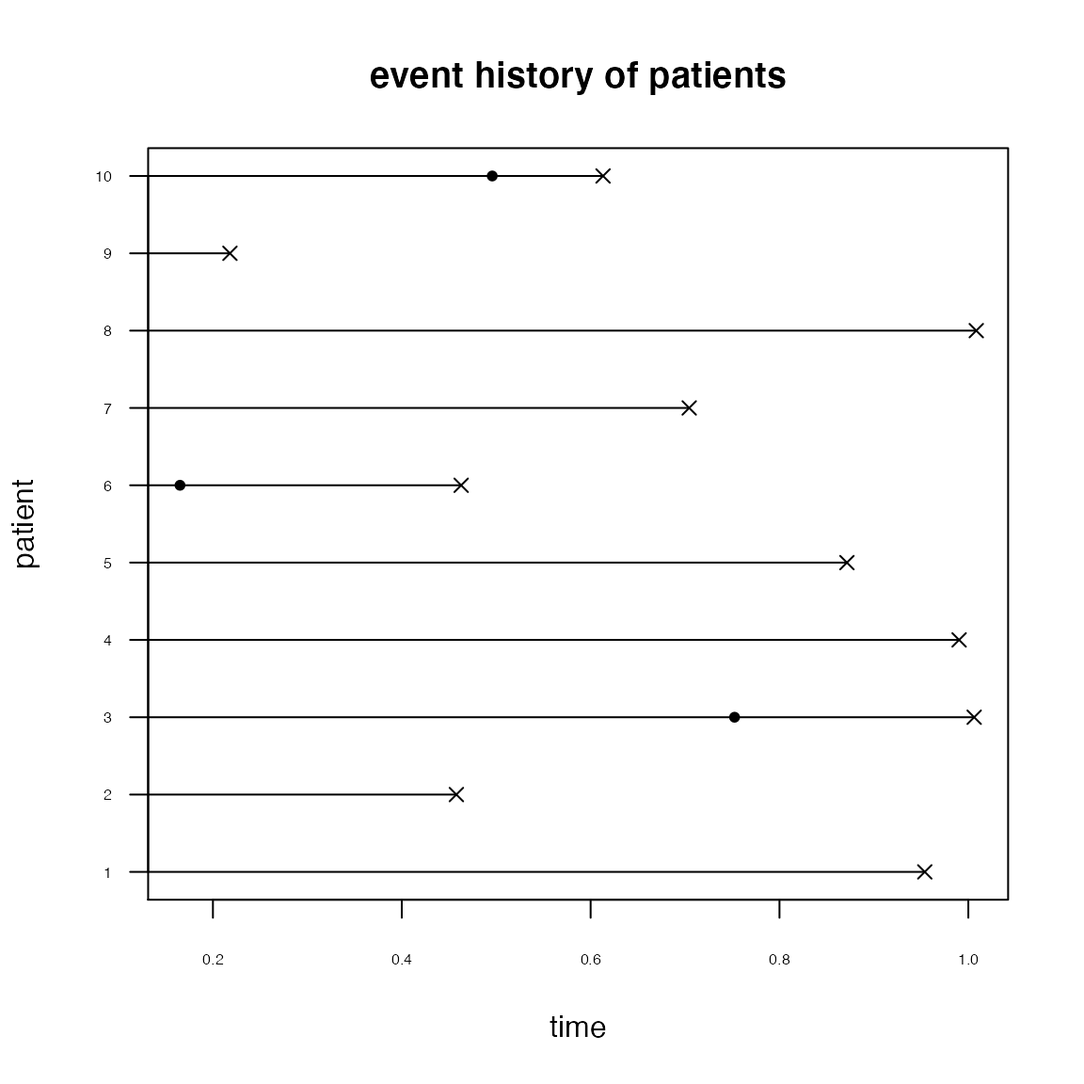
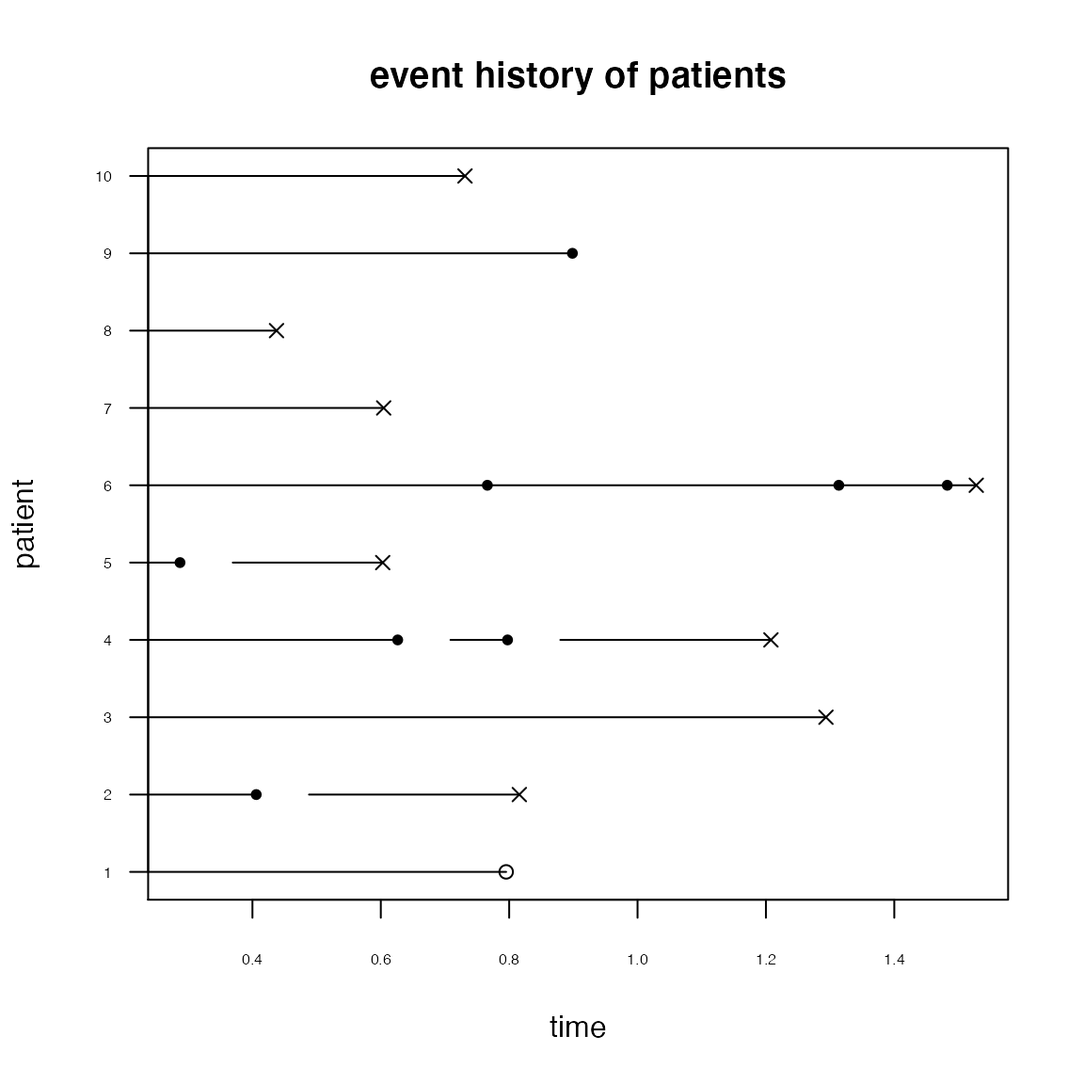
Built site for simrec: 1.0.0@fff1aa9

diff --git a/articles/simrec-vignette.html b/articles/simrec-vignette.html
@@ -233,19 +233,19 @@
                   <span class="va">dist.z</span>, <span class="va">par.z</span>, <span class="va">dist.rec</span>, <span class="va">par.rec</span>, <span class="va">pfree</span>, <span class="va">dfree</span><span class="op">)</span>
 <span class="fu"><a href="https://rdrr.io/r/base/print.html">print</a></span><span class="op">(</span><span class="va">simdata</span><span class="op">[</span><span class="fl">1</span><span class="op">:</span><span class="fl">10</span>,<span class="op">]</span><span class="op">)</span>
 <span class="fu">DT</span><span class="fu">::</span><span class="fu"><a href="https://rdrr.io/pkg/DT/man/datatable.html">datatable</a></span><span class="op">(</span><span class="va">simdata</span><span class="op">)</span></code></pre></div>
-<pre><code>##    id x.V1       x.V2        z     start      stop status fu
-## 1   1    0 -0.2382024 1.536006 0.0000000 0.5919625      1  2
-## 2   1    0 -0.2382024 1.536006 0.5919625 0.7905884      1  2
-## 3   1    0 -0.2382024 1.536006 0.8727802 0.9820614      1  2
-## 4   1    0 -0.2382024 1.536006 1.0642532 1.1865734      1  2
-## 5   1    0 -0.2382024 1.536006 1.2687652 1.7520497      1  2
-## 6   1    0 -0.2382024 1.536006 1.7520497 1.8222320      1  2
-## 7   1    0 -0.2382024 1.536006 1.9044238 1.9464076      1  2
-## 9   2    1  0.1193700 2.109331 0.0000000 0.2718459      1  2
-## 10  2    1  0.1193700 2.109331 0.2718459 0.3193463      1  2
-## 11  2    1  0.1193700 2.109331 0.4015381 1.1404883      1  2</code></pre>
-<div id="htmlwidget-3d3f98baddbf0de936e7" style="width:100%;height:auto;" class="datatables html-widget"></div>
-<script type="application/json" data-for="htmlwidget-3d3f98baddbf0de936e7">{"x":{"filter":"none","data":[["1","2","3","4","5","6","7","9","10","11","12","13","14","15","16","17","19","20","21","22","23","24","25","26","27","28","29","30","31","32","33","34","35","36","37","38","39","40","41","42","43","44","45","46","47","48","50","52"],[1,1,1,1,1,1,1,2,2,2,2,2,2,2,2,2,3,3,3,4,4,4,4,5,5,5,5,5,6,6,6,6,6,6,6,6,7,7,7,7,7,7,8,8,8,8,9,10],[0,0,0,0,0,0,0,1,1,1,1,1,1,1,1,1,0,0,0,1,1,1,1,0,0,0,0,0,0,0,0,0,0,0,0,0,0,0,0,0,0,0,0,0,0,0,0,1],[-0.238202385432401,-0.238202385432401,-0.238202385432401,-0.238202385432401,-0.238202385432401,-0.238202385432401,-0.238202385432401,0.11937001682409,0.11937001682409,0.11937001682409,0.11937001682409,0.11937001682409,0.11937001682409,0.11937001682409,0.11937001682409,0.11937001682409,-3.17549515912389,-3.17549515912389,-3.17549515912389,-0.185992013039732,-0.185992013039732,-0.185992013039732,-0.185992013039732,0.961541568701655,0.961541568701655,0.961541568701655,0.961541568701655,0.961541568701655,0.726449605100832,0.726449605100832,0.726449605100832,0.726449605100832,0.726449605100832,0.726449605100832,0.726449605100832,0.726449605100832,-0.621472675951126,-0.621472675951126,-0.621472675951126,-0.621472675951126,-0.621472675951126,-0.621472675951126,-0.0790079531946598,-0.0790079531946598,-0.0790079531946598,-0.0790079531946598,-1.43053401843437,-1.23858946479825],[1.53600599669762,1.53600599669762,1.53600599669762,1.53600599669762,1.53600599669762,1.53600599669762,1.53600599669762,2.10933069448751,2.10933069448751,2.10933069448751,2.10933069448751,2.10933069448751,2.10933069448751,2.10933069448751,2.10933069448751,2.10933069448751,1.44576432308901,1.44576432308901,1.44576432308901,0.484203276380287,0.484203276380287,0.484203276380287,0.484203276380287,0.962018988407656,0.962018988407656,0.962018988407656,0.962018988407656,0.962018988407656,1.78880770614292,1.78880770614292,1.78880770614292,1.78880770614292,1.78880770614292,1.78880770614292,1.78880770614292,1.78880770614292,0.879594885004249,0.879594885004249,0.879594885004249,0.879594885004249,0.879594885004249,0.879594885004249,1.54985526114018,1.54985526114018,1.54985526114018,1.54985526114018,0.41524676000793,1.29274164969518],[0,0.591962545227324,0.872780217016511,1.06425322738893,1.26876519962272,1.75204970896197,1.904423763487,0,0.271845896025415,0.401538086016402,1.14048832432969,1.43160905907959,1.593221958964,1.71612278603683,1.80697218908521,1.96864530661879,0,1.11989228747954,1.51372672823633,0,0.688169084219985,1.8169825178499,1.99748289145545,0,0.605492835598597,0.616286481070742,1.60257625586551,1.84267560568995,0,0.424028845272875,1.08464389198312,1.17675019776601,1.67123922983852,1.78006195373972,1.91565343337163,1.97128307903872,0,0.565597331533454,1.27908607065194,1.71098522607133,1.75995403391251,1.87439307860909,0,1.11759797243414,1.26257082535364,1.6994229942483,0,0],[0.591962545227324,0.790588436194593,0.98206144656701,1.1865734188008,1.75204970896197,1.82223198266508,1.9464076030807,0.271845896025415,0.319346305194484,1.14048832432969,1.43160905907959,1.51103017814208,1.63393100521491,1.80697218908521,1.88645352579687,1.99025363112551,1.03770050665762,1.51372672823633,2,0.688169084219985,1.8169825178499,1.99748289145545,2,0.52330105477668,0.616286481070742,1.52038447504359,1.76048382486803,2,0.424028845272875,1.08464389198312,1.09455841694409,1.67123922983852,1.6978701729178,1.91565343337163,1.97128307903872,2,0.565597331533454,1.19689428983003,1.62879344524941,1.75995403391251,1.87439307860909,2,1.03540619161222,1.26257082535364,1.6994229942483,1.96680366885642,2,0.0660698153078556],[1,1,1,1,1,1,1,1,1,1,1,1,1,1,1,1,1,1,0,1,1,1,0,1,1,1,1,0,1,1,1,1,1,1,1,0,1,1,1,1,1,0,1,1,1,1,0,0],[2,2,2,2,2,2,2,2,2,2,2,2,2,2,2,2,2,2,2,2,2,2,2,2,2,2,2,2,2,2,2,2,2,2,2,2,2,2,2,2,2,2,2,2,2,2,2,0.0660698153078556]],"container":"<table class=\"display\">\n  <thead>\n    <tr>\n      <th> <\/th>\n      <th>id<\/th>\n      <th>x.V1<\/th>\n      <th>x.V2<\/th>\n      <th>z<\/th>\n      <th>start<\/th>\n      <th>stop<\/th>\n      <th>status<\/th>\n      <th>fu<\/th>\n    <\/tr>\n  <\/thead>\n<\/table>","options":{"columnDefs":[{"className":"dt-right","targets":[1,2,3,4,5,6,7,8]},{"orderable":false,"targets":0}],"order":[],"autoWidth":false,"orderClasses":false}},"evals":[],"jsHooks":[]}</script>
+<pre><code>##    id x.V1      x.V2         z     start      stop status fu
+## 1   1    0 0.1535070 0.6128783 0.0000000 1.1590178      1  2
+## 2   1    0 0.1535070 0.6128783 1.1590178 1.4037661      1  2
+## 3   1    0 0.1535070 0.6128783 1.4037661 1.6288626      1  2
+## 4   1    0 0.1535070 0.6128783 1.6288626 1.6552675      1  2
+## 5   1    0 0.1535070 0.6128783 1.7374592 1.8031708      1  2
+## 6   1    0 0.1535070 0.6128783 1.8031708 2.0000000      0  2
+## 7   2    1 0.5069667 1.2360652 0.0000000 0.6571622      1  2
+## 8   2    1 0.5069667 1.2360652 0.7393540 0.7463646      1  2
+## 9   2    1 0.5069667 1.2360652 0.8285564 1.1485224      1  2
+## 10  2    1 0.5069667 1.2360652 1.2307142 1.6304633      1  2</code></pre>
+<div id="htmlwidget-3827b138abea04bed736" style="width:100%;height:auto;" class="datatables html-widget"></div>
+<script type="application/json" data-for="htmlwidget-3827b138abea04bed736">{"x":{"filter":"none","data":[["1","2","3","4","5","6","7","8","9","10","11","12","13","15","17","18","19","20","21","22","23","24","25","26","27","28","29","30","31","32","33","34","35","36","37","38","39","40","41","42","43","44","45","46","47","48","49","50","51","52","53"],[1,1,1,1,1,1,2,2,2,2,2,2,2,3,4,4,4,4,4,5,5,5,5,5,5,6,6,6,6,6,6,6,6,6,7,7,7,8,8,8,8,9,9,9,9,9,10,10,10,10,10],[0,0,0,0,0,0,1,1,1,1,1,1,1,0,0,0,0,0,0,1,1,1,1,1,1,1,1,1,1,1,1,1,1,1,0,0,0,0,0,0,0,0,0,0,0,0,0,0,0,0,0],[0.153506983920668,0.153506983920668,0.153506983920668,0.153506983920668,0.153506983920668,0.153506983920668,0.506966682766733,0.506966682766733,0.506966682766733,0.506966682766733,0.506966682766733,0.506966682766733,0.506966682766733,-1.46836746348191,0.710580734345817,0.710580734345817,0.710580734345817,0.710580734345817,0.710580734345817,-0.143048171463967,-0.143048171463967,-0.143048171463967,-0.143048171463967,-0.143048171463967,-0.143048171463967,1.88989469371483,1.88989469371483,1.88989469371483,1.88989469371483,1.88989469371483,1.88989469371483,1.88989469371483,1.88989469371483,1.88989469371483,0.897833767229139,0.897833767229139,0.897833767229139,1.67870575346476,1.67870575346476,1.67870575346476,1.67870575346476,0.630406064747774,0.630406064747774,0.630406064747774,0.630406064747774,0.630406064747774,0.393858842355362,0.393858842355362,0.393858842355362,0.393858842355362,0.393858842355362],[0.612878329821358,0.612878329821358,0.612878329821358,0.612878329821358,0.612878329821358,0.612878329821358,1.23606515715141,1.23606515715141,1.23606515715141,1.23606515715141,1.23606515715141,1.23606515715141,1.23606515715141,0.452632127623276,1.14418049674449,1.14418049674449,1.14418049674449,1.14418049674449,1.14418049674449,0.808401995043561,0.808401995043561,0.808401995043561,0.808401995043561,0.808401995043561,0.808401995043561,1.01835318357523,1.01835318357523,1.01835318357523,1.01835318357523,1.01835318357523,1.01835318357523,1.01835318357523,1.01835318357523,1.01835318357523,1.06674345725148,1.06674345725148,1.06674345725148,0.472063703042776,0.472063703042776,0.472063703042776,0.472063703042776,1.54528621834038,1.54528621834038,1.54528621834038,1.54528621834038,1.54528621834038,0.708209066537915,0.708209066537915,0.708209066537915,0.708209066537915,0.708209066537915],[0,1.15901777046872,1.40376609366158,1.62886257931615,1.73745923290305,1.8031707531818,0,0.739353965137331,0.828556367188366,1.23071419652811,1.63046334636664,1.84703668633623,1.86598137254335,0,0,1.25739714932843,1.38991889173625,1.41628156691025,1.85498354812601,0,0.709482905588995,0.742770726892461,1.51734280154746,1.83124881479382,1.97563671010899,0,0.81098123443083,1.09722315054282,1.15852499303688,1.37180431454707,1.44895812822943,1.78987819351057,1.92252440379865,1.96661954574787,0,0.21794383497297,0.251282721246151,0,0.444275433990701,1.25417394170903,1.60463969774474,0,0.983147672026822,1.21774109206724,1.30081066886243,1.4203106969447,0,0.700052256632651,1.14779164600969,1.53342036965574,1.73800577957019],[1.15901777046872,1.40376609366158,1.62886257931615,1.65526745208113,1.8031707531818,2,0.657162184315413,0.746364586366449,1.1485224157062,1.63046334636664,1.76484490551431,1.86598137254335,1.97679994636945,2,1.17520536850651,1.30772711091433,1.41628156691025,1.85498354812601,2,0.709482905588995,0.742770726892461,1.43515102072555,1.7490570339719,1.89344492928707,2,0.81098123443083,1.0150313697209,1.15852499303688,1.28961253372515,1.44895812822943,1.78987819351057,1.84033262297673,1.96661954574787,2,0.135752054151052,0.251282721246151,0.629448459949344,0.362083653168783,1.17198216088711,1.60463969774474,2,0.983147672026822,1.21774109206724,1.30081066886243,1.33811891612279,1.4560733246617,0.617860475810733,1.06559986518777,1.53342036965574,1.65581399874827,1.95346771177648],[1,1,1,1,1,0,1,1,1,1,1,1,1,0,1,1,1,1,0,1,1,1,1,1,0,1,1,1,1,1,1,1,1,0,1,1,0,1,1,1,0,1,1,1,1,0,1,1,1,1,1],[2,2,2,2,2,2,2,2,2,2,2,2,2,2,2,2,2,2,2,2,2,2,2,2,2,2,2,2,2,2,2,2,2,2,0.629448459949344,0.629448459949344,0.629448459949344,2,2,2,2,1.4560733246617,1.4560733246617,1.4560733246617,1.4560733246617,1.4560733246617,2,2,2,2,2]],"container":"<table class=\"display\">\n  <thead>\n    <tr>\n      <th> <\/th>\n      <th>id<\/th>\n      <th>x.V1<\/th>\n      <th>x.V2<\/th>\n      <th>z<\/th>\n      <th>start<\/th>\n      <th>stop<\/th>\n      <th>status<\/th>\n      <th>fu<\/th>\n    <\/tr>\n  <\/thead>\n<\/table>","options":{"columnDefs":[{"className":"dt-right","targets":[1,2,3,4,5,6,7,8]},{"orderable":false,"targets":0}],"order":[],"autoWidth":false,"orderClasses":false}},"evals":[],"jsHooks":[]}</script>
 </div>
 </div>
 <div id="the-simreccomp-function" class="section level1">
@@ -388,31 +388,31 @@
 <span class="fu">DT</span><span class="fu">::</span><span class="fu"><a href="https://rdrr.io/pkg/DT/man/datatable.html">datatable</a></span><span class="op">(</span><span class="va">simdata1</span><span class="op">)</span>
 <span class="fu">DT</span><span class="fu">::</span><span class="fu"><a href="https://rdrr.io/pkg/DT/man/datatable.html">datatable</a></span><span class="op">(</span><span class="va">simdata2</span><span class="op">)</span></code></pre></div>
 <pre><code>##    id x.V1       x.V2        zr        zc     start      stop status        fu
-## 1   1    0 -0.3034790 0.4932352 0.7023070 0.0000000 0.9538970      2 0.9538970
-## 5   2    1  1.0542612 0.7230629 0.8503310 0.0000000 0.4578114      2 0.4578114
-## 10  3    1  0.1464964 0.7789999 0.8826097 0.0000000 0.7524247      1 1.0061967
-## 11  3    1  0.1464964 0.7789999 0.8826097 0.7524247 1.0061967      2 1.0061967
-## 18  4    1  0.3411035 0.9870388 0.9934983 0.0000000 0.9902322      2 0.9902322
-## 23  5    1 -0.2746499 0.6796789 0.8244264 0.0000000 0.8714216      2 0.8714216
-## 25  6    1  0.6958808 0.8976351 0.9474361 0.0000000 0.1651154      1 0.4628814
-## 26  6    1  0.6958808 0.8976351 0.9474361 0.1651154 0.4628814      2 0.4628814
-## 31  7    0 -0.1627204 0.6126629 0.7827279 0.0000000 0.7043924      2 0.7043924
-## 33  8    1 -0.1176351 0.7620515 0.8729556 0.0000000 1.0084111      2 1.0084111
-##    id x.V1        x.V2        zr        zc start      stop status        fu
-## 1   1    0  1.20956489 0.4491684 0.5609335     0 1.0070785      2 1.0070785
-## 3   2    1 -0.71829366 0.7703954 1.4159015     0 0.8768252      1 0.9046838
-## 8   3    1 -0.21284402 0.9271975 2.1515577     0 0.2413043      2 0.2413043
-## 15  4    0 -0.45401430 0.7155828 1.5698370     0 0.4453199      0 0.4453199
-## 17  5    1 -0.06616191 0.9955909 0.8931577     0 0.4867672      0 0.4867672
-## 19  6    1 -1.54820526 0.7096565 0.8126439     0 1.1975052      1 1.2346337
-## 21  7    0 -0.28227677 0.7712523 1.1002593     0 0.3681234      2 0.3681234
-## 25  8    1 -0.72847097 0.9590355 0.8257250     0 0.2403153      2 0.2403153
-## 30  9    0 -1.22055643 0.8268140 0.1832242     0 0.8435712      2 0.8435712
-## 32 10    1  1.29525125 1.8041731 0.6703351     0 0.6709671      1 0.9097793</code></pre>
+## 1   1    0 -1.5319249 0.4773210 0.6908842 0.0000000 0.7953173      0 0.7953173
+## 3   2    0  0.7970710 1.0501561 1.0247713 0.0000000 0.4059230      1 0.8158253
+## 4   2    0  0.7970710 1.0501561 1.0247713 0.4881148 0.8158253      2 0.8158253
+## 6   3    0 -2.1179383 0.9103541 0.9541248 0.0000000 1.2935491      2 1.2935491
+## 8   4    0  1.5419177 0.6495091 0.8059213 0.0000000 0.6263277      1 1.2077933
+## 9   4    0  1.5419177 0.6495091 0.8059213 0.7085195 0.7974873      1 1.2077933
+## 10  4    0  1.5419177 0.6495091 0.8059213 0.8796791 1.2077933      2 1.2077933
+## 17  5    0  0.1608882 1.9134522 1.3832759 0.0000000 0.2871509      1 0.6029816
+## 18  5    0  0.1608882 1.9134522 1.3832759 0.3693427 0.6029816      2 0.6029816
+## 28  6    0 -1.4911909 1.4450625 1.2021075 0.0000000 0.7660235      1 1.5277114
+##    id x.V1        x.V2        zr        zc     start       stop status         fu
+## 1   1    1 -0.03167323 0.4584612 0.2379701 0.0000000 0.05678694      2 0.05678694
+## 3   2    1  0.51351468 0.7666439 1.1079177 0.0000000 0.28013117      2 0.28013117
+## 9   3    1  0.77908707 1.0930017 0.3728094 0.0000000 0.72609822      2 0.72609822
+## 14  4    0 -0.43648174 1.5683061 1.4734591 0.0000000 0.49556092      1 0.92168910
+## 15  4    0 -0.43648174 1.5683061 1.4734591 0.5777527 0.60134589      1 0.92168910
+## 16  4    0 -0.43648174 1.5683061 1.4734591 0.6835377 0.76766149      1 0.92168910
+## 17  4    0 -0.43648174 1.5683061 1.4734591 0.8498533 0.88322547      1 0.92168910
+## 22  5    0  0.27801413 0.3949241 0.7879652 0.0000000 0.59970328      0 0.59970328
+## 24  6    1 -1.29769606 0.4279100 0.5462846 0.0000000 1.22829260      1 2.00000000
+## 25  6    1 -1.29769606 0.4279100 0.5462846 1.2282926 1.72953020      1 2.00000000</code></pre>
 <p></p>
-<div id="htmlwidget-3d76e13d7ca76972da66" style="width:100%;height:auto;" class="datatables html-widget"></div>
-<script type="application/json" data-for="htmlwidget-3d76e13d7ca76972da66">{"x":{"filter":"none","data":[["1","5","10","11","18","23","25","26","31","33","36","39","40"],[1,2,3,3,4,5,6,6,7,8,9,10,10],[0,1,1,1,1,1,1,1,0,1,1,1,1],[-0.303479019936925,1.05426117784348,0.14649642789992,0.14649642789992,0.341103548971434,-0.274649883733405,0.695880804943997,0.695880804943997,-0.1627204020773,-0.11763512189172,-0.287660483013348,1.06316518344902,1.06316518344902],[0.493235170185181,0.723062860893903,0.778999877690179,0.778999877690179,0.987038847400273,0.679678945422994,0.897635146147853,0.897635146147853,0.612662894010462,0.762051499175396,0.631578435395474,1.46681303850223,1.46681303850223],[0.702307034127653,0.850331030184071,0.882609697255916,0.882609697255916,0.993498287567862,0.824426434209259,0.947436090798663,0.947436090798663,0.782727854372426,0.872955611228541,0.794719092129712,1.21112057141402,1.21112057141402],[0,0,0,0.752424687742489,0,0,0,0.165115366314376,0,0,0,0,0.495783199936721],[0.95389698821748,0.457811418764719,0.752424687742489,1.00619673215251,0.990232198271341,0.871421645289139,0.165115366314376,0.462881362070151,0.70439237626303,1.0084111441836,0.218012060355721,0.495783199936721,0.613149821285711],[2,2,1,2,2,2,1,2,2,2,2,1,2],[0.95389698821748,0.457811418764719,1.00619673215251,1.00619673215251,0.990232198271341,0.871421645289139,0.462881362070151,0.462881362070151,0.70439237626303,1.0084111441836,0.218012060355721,0.613149821285711,0.613149821285711]],"container":"<table class=\"display\">\n  <thead>\n    <tr>\n      <th> <\/th>\n      <th>id<\/th>\n      <th>x.V1<\/th>\n      <th>x.V2<\/th>\n      <th>zr<\/th>\n      <th>zc<\/th>\n      <th>start<\/th>\n      <th>stop<\/th>\n      <th>status<\/th>\n      <th>fu<\/th>\n    <\/tr>\n  <\/thead>\n<\/table>","options":{"columnDefs":[{"className":"dt-right","targets":[1,2,3,4,5,6,7,8,9]},{"orderable":false,"targets":0}],"order":[],"autoWidth":false,"orderClasses":false}},"evals":[],"jsHooks":[]}</script><div id="htmlwidget-547c797ea702e8802c1e" style="width:100%;height:auto;" class="datatables html-widget"></div>
-<script type="application/json" data-for="htmlwidget-547c797ea702e8802c1e">{"x":{"filter":"none","data":[["1","3","8","15","17","19","21","25","30","32","33"],[1,2,3,4,5,6,7,8,9,10,10],[0,1,1,0,1,1,0,1,0,1,1],[1.20956488724483,-0.718293660337081,-0.212844016441793,-0.454014301874695,-0.0661619118578132,-1.54820525632031,-0.282276766202856,-0.728470974288314,-1.22055643308011,1.29525124727113,1.29525124727113],[0.449168442661171,0.770395350952984,0.927197484162989,0.715582800835254,0.995590905188123,0.709656478802683,0.771252340819906,0.959035464888378,0.826814037609436,1.80417306502749,1.80417306502749],[0.560933494805607,1.41590146669125,2.15155774064207,1.56983695217307,0.89315767320956,0.812643925443786,1.10025934525534,0.825725000144587,0.183224219948314,0.670335133330932,0.670335133330932],[0,0,0,0,0,0,0,0,0,0,0.753158840926369],[1.00707848772279,0.876825165774105,0.241304305509579,0.445319934748113,0.486767240799963,1.19750522906809,0.368123426756229,0.240315336929874,0.843571171139369,0.670967060104451,0.909779310543743],[2,1,2,0,0,1,2,2,2,1,2],[1.00707848772279,0.904683789533041,0.241304305509579,0.445319934748113,0.486767240799963,1.23463368570183,0.368123426756229,0.240315336929874,0.843571171139369,0.909779310543743,0.909779310543743]],"container":"<table class=\"display\">\n  <thead>\n    <tr>\n      <th> <\/th>\n      <th>id<\/th>\n      <th>x.V1<\/th>\n      <th>x.V2<\/th>\n      <th>zr<\/th>\n      <th>zc<\/th>\n      <th>start<\/th>\n      <th>stop<\/th>\n      <th>status<\/th>\n      <th>fu<\/th>\n    <\/tr>\n  <\/thead>\n<\/table>","options":{"columnDefs":[{"className":"dt-right","targets":[1,2,3,4,5,6,7,8,9]},{"orderable":false,"targets":0}],"order":[],"autoWidth":false,"orderClasses":false}},"evals":[],"jsHooks":[]}</script>
+<div id="htmlwidget-ccdd2e0fc8e364eb1882" style="width:100%;height:auto;" class="datatables html-widget"></div>
+<script type="application/json" data-for="htmlwidget-ccdd2e0fc8e364eb1882">{"x":{"filter":"none","data":[["1","3","4","6","8","9","10","17","18","28","29","30","31","33","41","45","52"],[1,2,2,3,4,4,4,5,5,6,6,6,6,7,8,9,10],[0,0,0,0,0,0,0,0,0,0,0,0,0,1,1,1,0],[-1.53192487499025,0.797071017319118,0.797071017319118,-2.11793826336336,1.54191771792847,1.54191771792847,1.54191771792847,0.160888193070404,0.160888193070404,-1.49119094654265,-1.49119094654265,-1.49119094654265,-1.49119094654265,1.20778898605306,-0.554262611382111,-0.667792945215564,-0.482821247989765],[0.477321001621874,1.05015613377715,1.05015613377715,0.910354122772794,0.649509140605007,0.649509140605007,0.649509140605007,1.91345221166988,1.91345221166988,1.44506246606708,1.44506246606708,1.44506246606708,1.44506246606708,0.682038980937768,1.40584600296903,1.13571775532954,0.50043688757319],[0.690884217233158,1.02477125924625,1.02477125924625,0.95412479412957,0.805921299262532,0.805921299262532,0.805921299262532,1.38327589860804,1.38327589860804,1.20210751019494,1.20210751019494,1.20210751019494,1.20210751019494,0.825856513528693,1.1856837702225,1.06570059366106,0.707415639898631],[0,0,0.488114790466898,0,0,0.708519505117114,0.879679084697126,0,0.36934271666977,0,0.766023479865872,1.31358578414443,1.48253423363769,0,0,0,0],[0.795317337382585,0.40592300964498,0.815825346419349,1.29354907742475,0.626327724295196,0.797487303875208,1.20779332936017,0.287150935847852,0.602981598410611,0.766023479865872,1.31358578414443,1.48253423363769,1.52771135221045,0.604497113559222,0.437518188015388,0.898521695764227,0.731151369836362],[0,1,2,2,1,1,2,1,2,1,1,1,2,2,2,1,2],[0.795317337382585,0.815825346419349,0.815825346419349,1.29354907742475,1.20779332936017,1.20779332936017,1.20779332936017,0.602981598410611,0.602981598410611,1.52771135221045,1.52771135221045,1.52771135221045,1.52771135221045,0.604497113559222,0.437518188015388,0.927333741695984,0.731151369836362]],"container":"<table class=\"display\">\n  <thead>\n    <tr>\n      <th> <\/th>\n      <th>id<\/th>\n      <th>x.V1<\/th>\n      <th>x.V2<\/th>\n      <th>zr<\/th>\n      <th>zc<\/th>\n      <th>start<\/th>\n      <th>stop<\/th>\n      <th>status<\/th>\n      <th>fu<\/th>\n    <\/tr>\n  <\/thead>\n<\/table>","options":{"columnDefs":[{"className":"dt-right","targets":[1,2,3,4,5,6,7,8,9]},{"orderable":false,"targets":0}],"order":[],"autoWidth":false,"orderClasses":false}},"evals":[],"jsHooks":[]}</script><div id="htmlwidget-988f11408cfa60f93e8f" style="width:100%;height:auto;" class="datatables html-widget"></div>
+<script type="application/json" data-for="htmlwidget-988f11408cfa60f93e8f">{"x":{"filter":"none","data":[["1","3","9","14","15","16","17","22","24","25","26","27","29","31","32","33","34","35","36"],[1,2,3,4,4,4,4,5,6,6,6,7,8,9,9,9,10,10,10],[1,1,1,0,0,0,0,0,1,1,1,1,0,0,0,0,1,1,1],[-0.031673234376813,0.513514684866261,0.779087071155539,-0.436481744641145,-0.436481744641145,-0.436481744641145,-0.436481744641145,0.278014125719511,-1.2976960601238,-1.2976960601238,-1.2976960601238,0.510863336938228,-0.804350516610155,-2.48001341663935,-2.48001341663935,-2.48001341663935,-1.34901332483577,-1.34901332483577,-1.34901332483577],[0.458461210235904,0.766643890695434,1.09300172238121,1.56830614593991,1.56830614593991,1.56830614593991,1.56830614593991,0.394924090340508,0.427910004208539,0.427910004208539,0.427910004208539,0.309116809675305,0.444547221577868,0.452083659613315,0.452083659613315,0.452083659613315,0.933774013908951,0.933774013908951,0.933774013908951],[0.237970124588583,1.10791769464474,0.372809384269697,1.47345909748253,1.47345909748253,1.47345909748253,1.47345909748253,0.78796518351411,0.546284644352871,0.546284644352871,0.546284644352871,0.719006119628259,0.40686699140933,1.30547761741213,1.30547761741213,1.30547761741213,0.795486437747646,0.795486437747646,0.795486437747646],[0,0,0,0,0.577752702282281,0.683537675583976,0.849853269703063,0,0,1.22829259792367,1.81172198218905,0,0,0,0.418266000148544,0.969559189043605,0,0.613181964823628,0.706079233862875],[0.0567869426580305,0.280131169111505,0.726098218037557,0.495560921460364,0.601345894762058,0.767661488881145,0.883225469046956,0.59970328444615,1.22829259792367,1.72953020136713,2,0.845589777931529,1.61562445854558,0.336074219326626,0.969559189043605,2,0.53099018400171,0.623887453040957,1.01323640065664],[2,2,2,1,1,1,1,0,1,1,0,2,2,1,1,0,1,1,2],[0.0567869426580305,0.280131169111505,0.726098218037557,0.921689097414014,0.921689097414014,0.921689097414014,0.921689097414014,0.59970328444615,2,2,2,0.845589777931529,1.61562445854558,2,2,2,1.01323640065664,1.01323640065664,1.01323640065664]],"container":"<table class=\"display\">\n  <thead>\n    <tr>\n      <th> <\/th>\n      <th>id<\/th>\n      <th>x.V1<\/th>\n      <th>x.V2<\/th>\n      <th>zr<\/th>\n      <th>zc<\/th>\n      <th>start<\/th>\n      <th>stop<\/th>\n      <th>status<\/th>\n      <th>fu<\/th>\n    <\/tr>\n  <\/thead>\n<\/table>","options":{"columnDefs":[{"className":"dt-right","targets":[1,2,3,4,5,6,7,8,9]},{"orderable":false,"targets":0}],"order":[],"autoWidth":false,"orderClasses":false}},"evals":[],"jsHooks":[]}</script>
 </div>
 </div>
 <div id="the-simrecint-function" class="section level1">
@@ -484,16 +484,34 @@
 <span class="va">simdataint</span> <span class="op">&lt;-</span> <span class="fu"><a href="../reference/simrecint.html">simrecint</a></span><span class="op">(</span><span class="va">simdata</span>, N <span class="op">=</span> <span class="va">N</span>, tR <span class="op">=</span> <span class="fl">2</span>, tI <span class="op">=</span> <span class="fl">1</span><span class="op">)</span>
 <span class="fu"><a href="https://rdrr.io/r/base/print.html">print</a></span><span class="op">(</span><span class="va">simdataint</span><span class="op">)</span>  <span class="co"># only run for small N!</span>
 <span class="fu">DT</span><span class="fu">::</span><span class="fu"><a href="https://rdrr.io/pkg/DT/man/datatable.html">datatable</a></span><span class="op">(</span><span class="va">simdataint</span><span class="op">)</span></code></pre></div>
-<pre><code>##    id x.V1       x.V2        z     start      stop status       fu    rectime interimtime
-## 14  3    0 -1.6264168 1.166630 0.0000000 0.6081424      1 2.000000 0.01011232           1
-## 15  3    0 -1.6264168 1.166630 0.6081424 0.9898877      0 2.000000 0.01011232           1
-## 36  7    1 -0.5095165 1.574222 0.0000000 0.6353854      0 1.645178 0.36461456           1
-##    stop_study
-## 14  0.6182547
-## 15  1.7654199
-## 36  1.0039596</code></pre>
-<div id="htmlwidget-4c36ba7f74af03c7053e" style="width:100%;height:auto;" class="datatables html-widget"></div>
-<script type="application/json" data-for="htmlwidget-4c36ba7f74af03c7053e">{"x":{"filter":"none","data":[["14","15","36"],[3,3,7],[0,0,1],[-1.62641680983937,-1.62641680983937,-0.509516456488588],[1.16662950216158,1.16662950216158,1.57422164305588],[0,0.608142404431319,0],[0.608142404431319,0.989887676667422,0.63538544299081],[1,0,0],[2,2,1.64517769264057],[0.0101123233325779,0.0101123233325779,0.36461455700919],[1,1,1],[0.618254727763896,1.76541990973765,1.00395962712724]],"container":"<table class=\"display\">\n  <thead>\n    <tr>\n      <th> <\/th>\n      <th>id<\/th>\n      <th>x.V1<\/th>\n      <th>x.V2<\/th>\n      <th>z<\/th>\n      <th>start<\/th>\n      <th>stop<\/th>\n      <th>status<\/th>\n      <th>fu<\/th>\n      <th>rectime<\/th>\n      <th>interimtime<\/th>\n      <th>stop_study<\/th>\n    <\/tr>\n  <\/thead>\n<\/table>","options":{"columnDefs":[{"className":"dt-right","targets":[1,2,3,4,5,6,7,8,9,10,11]},{"orderable":false,"targets":0}],"order":[],"autoWidth":false,"orderClasses":false}},"evals":[],"jsHooks":[]}</script>
+<pre><code>##    id x.V1       x.V2         z      start       stop status       fu   rectime
+## 1   1    0  1.1363361 0.8543712 0.00000000 0.03303445      1 2.000000 0.7633755
+## 2   1    0  1.1363361 0.8543712 0.03303445 0.23662446      0 2.000000 0.7633755
+## 9   2    0 -0.9378509 0.4545830 0.00000000 0.08583130      0 1.983314 0.9141687
+## 12  3    1  1.0453266 1.5921512 0.00000000 0.27302469      1 2.000000 0.2597974
+## 13  3    1  1.0453266 1.5921512 0.27302469 0.74020261      0 2.000000 0.2597974
+## 27  4    0  0.4224693 1.0152428 0.00000000 0.67842267      1 2.000000 0.1482107
+## 28  4    0  0.4224693 1.0152428 0.67842267 0.72206950      1 2.000000 0.1482107
+## 29  4    0  0.4224693 1.0152428 0.72206950 0.85178925      0 2.000000 0.1482107
+## 35  5    0 -0.5571385 0.6089320 0.00000000 0.27883500      0 2.000000 0.7211650
+## 48  7    0  1.1646699 1.3201169 0.00000000 0.26660089      1 2.000000 0.5499029
+## 49  7    0  1.1646699 1.3201169 0.26660089 0.45009711      0 2.000000 0.5499029
+## 55  8    0 -0.3294151 0.6122803 0.00000000 0.66910486      0 2.000000 0.3308951
+##    interimtime stop_study
+## 1            1  0.7964100
+## 2            1  1.1671119
+## 9            1  1.6002977
+## 12           1  0.5328221
+## 13           1  1.0028795
+## 27           1  0.8266334
+## 28           1  0.8702802
+## 29           1  1.4301055
+## 35           1  1.3176871
+## 48           1  0.8165038
+## 49           1  1.4561403
+## 55           1  1.8958264</code></pre>
+<div id="htmlwidget-5ce46524ed1d29348b5b" style="width:100%;height:auto;" class="datatables html-widget"></div>
+<script type="application/json" data-for="htmlwidget-5ce46524ed1d29348b5b">{"x":{"filter":"none","data":[["1","2","9","12","13","27","28","29","35","48","49","55"],[1,1,2,3,3,4,4,4,5,7,7,8],[0,0,0,1,1,0,0,0,0,0,0,0],[1.13633613245014,1.13633613245014,-0.937850894654614,1.04532657409037,1.04532657409037,0.422469279710839,0.422469279710839,0.422469279710839,-0.55713849282313,1.16466987028347,1.16466987028347,-0.329415113819755],[0.854371184466971,0.854371184466971,0.454582978683583,1.59215124506801,1.59215124506801,1.01524279108122,1.01524279108122,1.01524279108122,0.608931957808744,1.32011691406421,1.32011691406421,0.612280284596339],[0,0.0330344518856432,0,0,0.27302468807925,0,0.678422669081652,0.722069499840992,0,0,0.266600887842293,0],[0.0330344518856432,0.236624463927001,0.0858312998898327,0.27302468807925,0.740202607121319,0.678422669081652,0.722069499840992,0.851789254695177,0.278834999073297,0.266600887842293,0.450097108259797,0.669104855507612],[1,0,0,1,0,1,1,0,0,1,0,0],[2,2,1.98331355070695,2,2,2,2,2,2,2,2,2],[0.763375536072999,0.763375536072999,0.914168700110167,0.259797392878681,0.259797392878681,0.148210745304823,0.148210745304823,0.148210745304823,0.721165000926703,0.549902891740203,0.549902891740203,0.330895144492388],[1,1,1,1,1,1,1,1,1,1,1,1],[0.796409987958642,1.16711189257995,1.60029768828409,0.532822080957932,1.00287948369428,0.826633414386475,0.870280245145815,1.43010553166019,1.31768709267626,0.816503779582496,1.45614033077812,1.89582637747385]],"container":"<table class=\"display\">\n  <thead>\n    <tr>\n      <th> <\/th>\n      <th>id<\/th>\n      <th>x.V1<\/th>\n      <th>x.V2<\/th>\n      <th>z<\/th>\n      <th>start<\/th>\n      <th>stop<\/th>\n      <th>status<\/th>\n      <th>fu<\/th>\n      <th>rectime<\/th>\n      <th>interimtime<\/th>\n      <th>stop_study<\/th>\n    <\/tr>\n  <\/thead>\n<\/table>","options":{"columnDefs":[{"className":"dt-right","targets":[1,2,3,4,5,6,7,8,9,10,11]},{"orderable":false,"targets":0}],"order":[],"autoWidth":false,"orderClasses":false}},"evals":[],"jsHooks":[]}</script>
 </div>
 </div>
 <div id="plotting-the-data" class="section level1">
